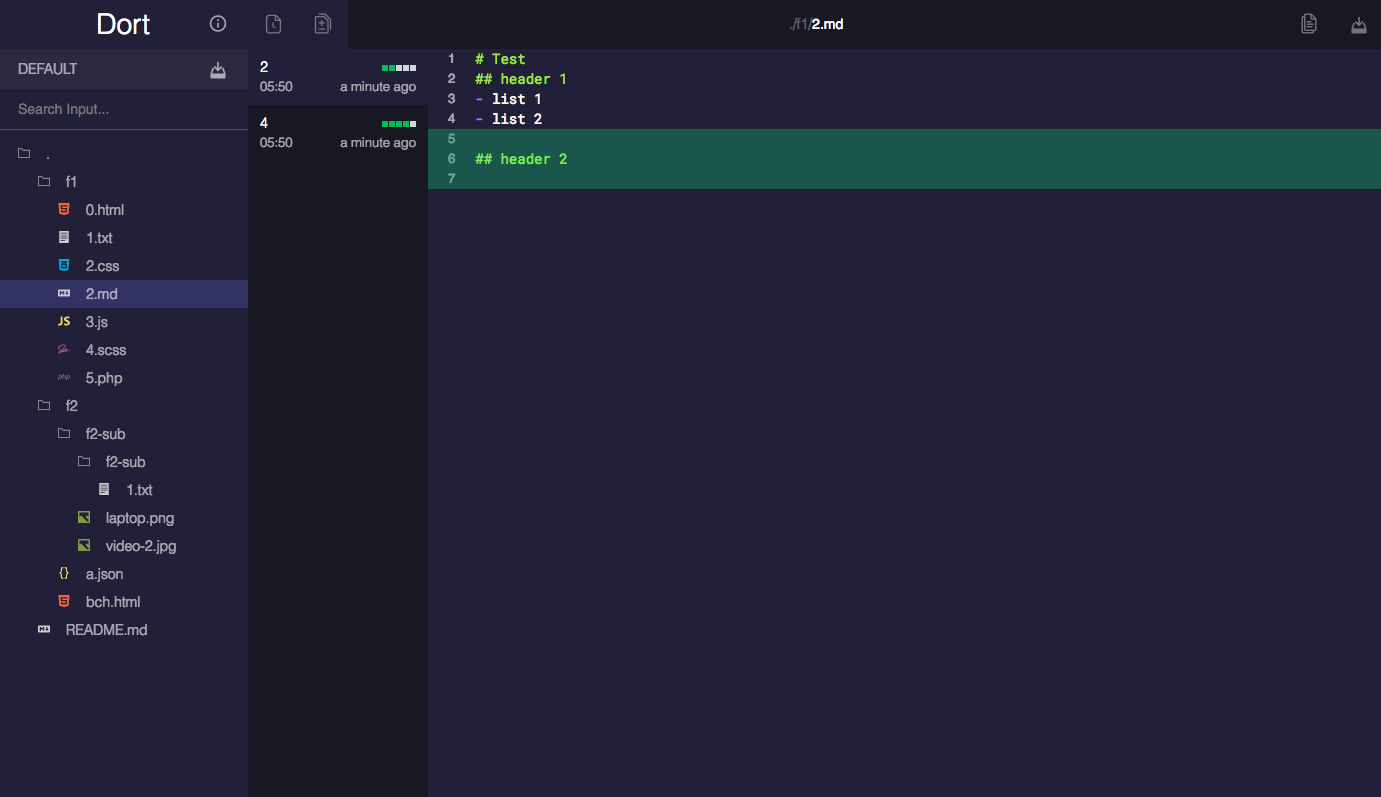
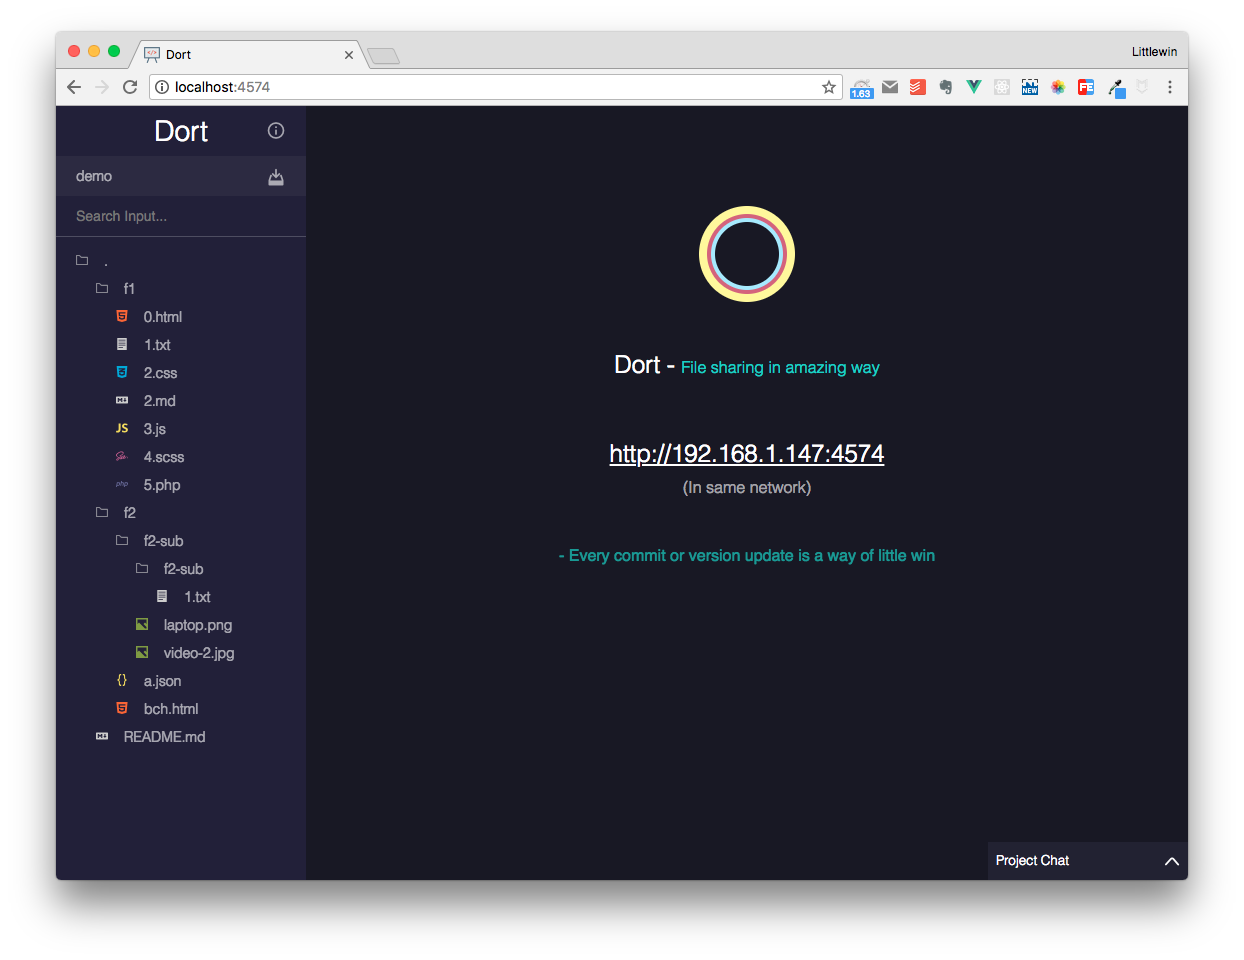
update docs

diff --git a/docs/index.html b/docs/index.html
@@ -1,0 +1,23 @@
+<!DOCTYPE html>
+<html lang="en">
+<head>
+  <meta charset="UTF-8">
+  <title>dort - File sharing through web with wonderful alternation.</title>
+  <meta http-equiv="X-UA-Compatible" content="IE=edge,chrome=1" />
+  <meta name="description" content="File sharing through web with wonderful alternation.">
+  <meta name="viewport" content="width=device-width, user-scalable=no, initial-scale=1.0, maximum-scale=1.0, minimum-scale=1.0">
+  <link rel="stylesheet" href="//unpkg.com/docsify/lib/themes/vue.css">
+</head>
+<body>
+  <div id="app"></div>
+  <script>
+    window.$docsify = {
+      name: 'dort',
+      repo: 'https://github.com/coding-toolkit/dort',
+      loadSidebar: true,
+      subMaxLevel: 3
+    }
+  </script>
+  <script src="//unpkg.com/docsify/lib/docsify.min.js"></script>
+</body>
+</html>

diff --git a/test/f1/3.js b/test/f1/3.js
@@ -304,8 +304,8 @@ class Watcher
             // Set up
             const relativePath = _path.replace(this.path, '.')
 
-            // // Emit
-            // this.socket.emit('delete_folder', { path: relativePath })
+            // Emit
+            this.socket.emit('delete_folder', { path: relativePath })
 
             // Debug
             if(this.config.debug >= 1)

diff --git a/docs/guide.md b/docs/guide.md
@@ -1,0 +1,42 @@
+### 启动
+- 准备 **nodejs** 和 **npm** 环境
+``` json
+"engines": {
+  "node": ">= 4.0.0",
+  "npm": ">= 3.0.0"
+}
+```
+
+- 安装 **dort** 工具
+``` bash
+# npm install -g dort
+```
+
+3. 进入目标文件夹并启动 **dort** 工具
+``` bash
+# cd ${your-files-path}
+# dort
+```
+
+##### 启动配置项
+params | Type | Default	| Description
+-------- | ---- | ------- | -----------
+debug | number	| 1	| develop levels (调试用，打印log)
+path	| string	| ''	| path of file you want open
+name	| string	| ''	| name of project
+port	| number	| 4574	| port for web
+exclude	| array	| ['**/.DS_Store', '**/.log', ...]	| file to exclude
+test	| bool	| false	| Enable test mode or not
+max-file-size	| number	| 99999	| max file size
+
+通过启动配置参数
+``` bash
+# dort "My project" --debug 0 --path /file-path --port 1234 --exclude "node_modules/**" --test true --max-file-size 99999
+# // or below for short
+# dort "My project" -d 0 -pa /file-path -po 1234 -e "node_modules/**" -t true -m 99999
+```
+
+4. 打开本地端口 - [http://localhost:4574](http://localhost:4574)
+![](https://github.com/coding-show/dort/blob/master/media/screenshot1.png?raw=true)
+
+5. 分享url给其他内网用户

diff --git a/docs/README.md b/docs/README.md
@@ -1,0 +1,26 @@
+<p align='center'>
+  <p align='center'><img width='150' src='https://raw.githubusercontent.com/coding-show/dort/master/client/static/images/favicon.png' /></p>
+  <p align='center'>
+    文件演示分享Web工具
+  </p>
+</p>
+
+### 简介
+Dort 是一个使用者在 **讲演** 或者 **代码审阅** 过程 分享 **项目文件**、**编辑过程** 的web工具。
+
+同一内网中的用户可以 **浏览文件**，**查看文件编辑版本**，**复制文本**，**下载整个项目**，**查看图片**，甚至可以与所有打开web的用户进行交流。
+
+### 特点
+- 客户端要求低，浏览器即可
+- 实时刷新
+- 低网络负载
+
+### 功能示例
+##### 项目查看
+![](https://github.com/coding-show/dort/blob/master/media/screenshot1.png?raw=true)
+
+##### 响应更新
+![](https://github.com/coding-show/dort/blob/master/media/screenshot2.png?raw=true)
+
+##### 聊天系统
+![](https://github.com/coding-show/dort/blob/master/media/screenshot3.png?raw=true)

diff --git a/docs/_sidebar.md b/docs/_sidebar.md
@@ -1,0 +1,2 @@
+* [介绍]()
+* [指南](guide)
